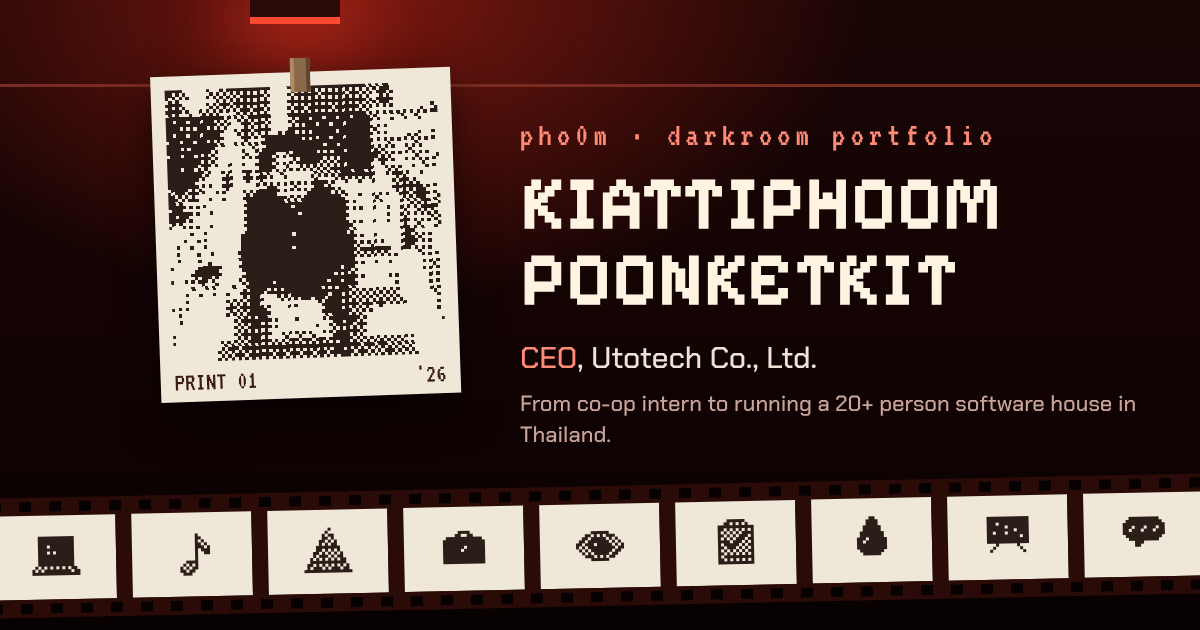
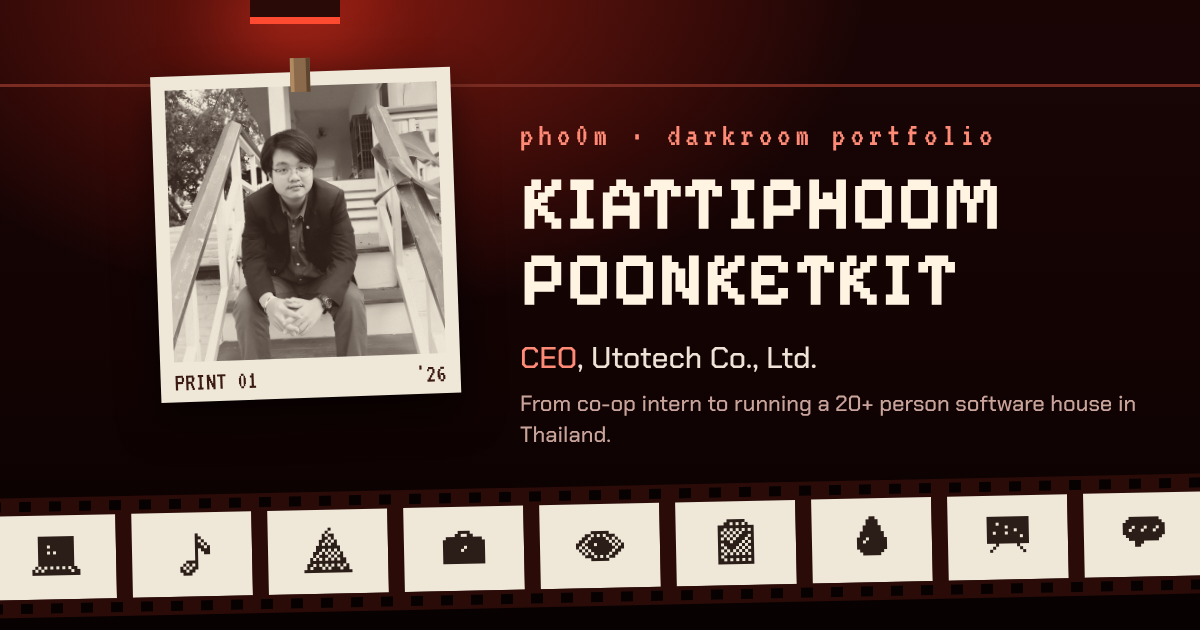
Add clear duotone darkroom prints
tonePrint() renders continuous-tone ink-to-paper prints at 512x352 with a
development level, so photos stay sharp while keeping the darkroom look; the
ordered dither remains for the developing transition. OG image uses it.

Claude-Session: https://claude.ai/code/session_01QcDKaNxEJCUHB9zwPZ8SHB

Changed region(s): [[0.1233, 0.1206, 0.37, 0.573]]

diff --git a/web/src/lib/pixel.ts b/web/src/lib/pixel.ts
@@ -9,6 +9,9 @@ import { DARKROOM, SPRITES, SPRITE_PALETTE, type IconName } from "@pho0m/content
 
 export const FRAME_W = 128;
 export const FRAME_H = 88;
+/** Resolution of the clear, fully developed print made from a photo (same 16:11 aspect as FRAME_W/H). */
+export const PRINT_W = 512;
+export const PRINT_H = 352;
 
 type RGB = [number, number, number];
 const hex = (h: string): RGB => [1, 3, 5].map((i) => parseInt(h.slice(i, i + 2), 16)) as RGB;
@@ -250,4 +253,67 @@ export function paint(canvas: HTMLCanvasElement, data: ImageData): void {
   if (canvas.width !== data.width) canvas.width = data.width;
   if (canvas.height !== data.height) canvas.height = data.height;
   canvas.getContext("2d")!.putImageData(data, 0, 0);
+}
+
+export type ToneOptions = {
+  /** 0..1 development: 0 = blank paper, 1 = fully developed (shadows come up first). */
+  level?: number;
+  /** Contrast of the S-curve, 0 = flat, 1 = punchy. */
+  contrast?: number;
+  /** Subtle deterministic film grain, 0..0.1. */
+  grain?: number;
+  paper?: RGB;
+  ink?: RGB;
+};
+
+/**
+ * Clear darkroom print: continuous-tone duotone (ink → paper) instead of a dither,
+ * so photos stay sharp while keeping the toned-print look. `level` < 1 renders a
+ * partially developed print where the darkest tones appear first, like in the tray.
+ */
+export function tonePrint(src: ImageData, opts: ToneOptions = {}, out?: ImageData): ImageData {
+  const { level = 1, contrast = 0.35, grain = 0.03, paper = PAPER, ink = INK } = opts;
+  const W = src.width;
+  const H = src.height;
+  const o = out ?? createImageData(W, H);
+  const s = src.data;
+  const d = o.data;
+  const lv = Math.max(0, Math.min(1, level));
+  for (let y = 0; y < H; y++)
+    for (let x = 0; x < W; x++) {
+      const k = (y * W + x) * 4;
+      let lum = (s[k]! * 0.3 + s[k + 1]! * 0.59 + s[k + 2]! * 0.11) / 255;
+      // S-curve around mid grey for a crisp print
+      lum = lum + contrast * (lum - 0.5) * (1 - Math.abs(2 * lum - 1));
+      if (grain > 0) lum += (hash(x * 12.9898 + y * 78.233) - 0.5) * grain;
+      lum = Math.max(0, Math.min(1, lum));
+      // development: ink density grows with level; darker tones reach full density sooner
+      const density = (1 - lum) * Math.min(1, lv * (1 + (1 - lum)));
+      const t = 1 - density;
+      d[k] = Math.round(ink[0] + (paper[0] - ink[0]) * t);
+      d[k + 1] = Math.round(ink[1] + (paper[1] - ink[1]) * t);
+      d[k + 2] = Math.round(ink[2] + (paper[2] - ink[2]) * t);
+      d[k + 3] = 255;
+    }
+  return o;
+}
+
+/** Nearest-neighbour upscale (keeps pixel art crisp when a small scene is shown as a big print). */
+export function upscaleNearest(src: ImageData, w: number, h: number): ImageData {
+  const o = createImageData(w, h);
+  const sx = src.width / w;
+  const sy = src.height / h;
+  for (let y = 0; y < h; y++) {
+    const yy = Math.min(src.height - 1, Math.floor(y * sy));
+    for (let x = 0; x < w; x++) {
+      const xx = Math.min(src.width - 1, Math.floor(x * sx));
+      const si = (yy * src.width + xx) * 4;
+      const di = (y * w + x) * 4;
+      o.data[di] = src.data[si]!;
+      o.data[di + 1] = src.data[si + 1]!;
+      o.data[di + 2] = src.data[si + 2]!;
+      o.data[di + 3] = 255;
+    }
+  }
+  return o;
 }

diff --git a/web/src/lib/pixel.test.ts b/web/src/lib/pixel.test.ts
@@ -1,5 +1,5 @@
 import { describe, expect, it } from "vitest";
-import { BAYER8, FRAME_H, FRAME_W, ditherPrint, iconScene, negativeOf, PAPER, INK } from "./pixel.ts";
+import { BAYER8, FRAME_H, FRAME_W, ditherPrint, iconScene, negativeOf, PAPER, INK, tonePrint, upscaleNearest, createImageData } from "./pixel.ts";
 
 describe("pixel engine", () => {
   it("bayer matrix is a permutation of 0..63", () => {
@@ -26,5 +26,28 @@ describe("pixel engine", () => {
     }
     expect(inkCount).toBeGreaterThan(50);
     expect(negativeOf(full).width).toBe(FRAME_W);
+  });
+
+  it("tonePrint is continuous-tone between ink and paper; level 0 is blank, darks develop first", () => {
+    const g = createImageData(3, 1);
+    [20, 128, 235].forEach((v, i) => { g.data.set([v, v, v, 255], i * 4); });
+    const full = tonePrint(g, { grain: 0, contrast: 0 });
+    const half = tonePrint(g, { grain: 0, contrast: 0, level: 0.5 });
+    const blank = tonePrint(g, { grain: 0, level: 0 });
+    const r = (im: ImageData, i: number) => im.data[i * 4]!;
+    expect(r(full, 0)).toBeLessThan(r(full, 1));
+    expect(r(full, 1)).toBeLessThan(r(full, 2));
+    for (let i = 0; i < 3; i++) expect(r(blank, i)).toBe(PAPER[0]);
+    // the dark pixel is closer to its final density at half development than the mid-grey one
+    const prog = (i: number) => (PAPER[0] - r(half, i)) / Math.max(1, PAPER[0] - r(full, i));
+    expect(prog(0)).toBeGreaterThan(prog(1));
+    const values = new Set(Array.from(tonePrint(iconScene("eye", 0.4), { grain: 0 }).data.filter((_, k) => k % 4 === 0)));
+    expect(values.size).toBeGreaterThan(4); // not two-tone
+  });
+  it("upscaleNearest keeps hard pixel edges", () => {
+    const s = iconScene("rocket", 0.2);
+    const big = upscaleNearest(s, FRAME_W * 4, FRAME_H * 4);
+    expect(big.width).toBe(FRAME_W * 4);
+    expect(Array.from(big.data.slice(0, 4))).toEqual(Array.from(s.data.slice(0, 4)));
   });
 });
